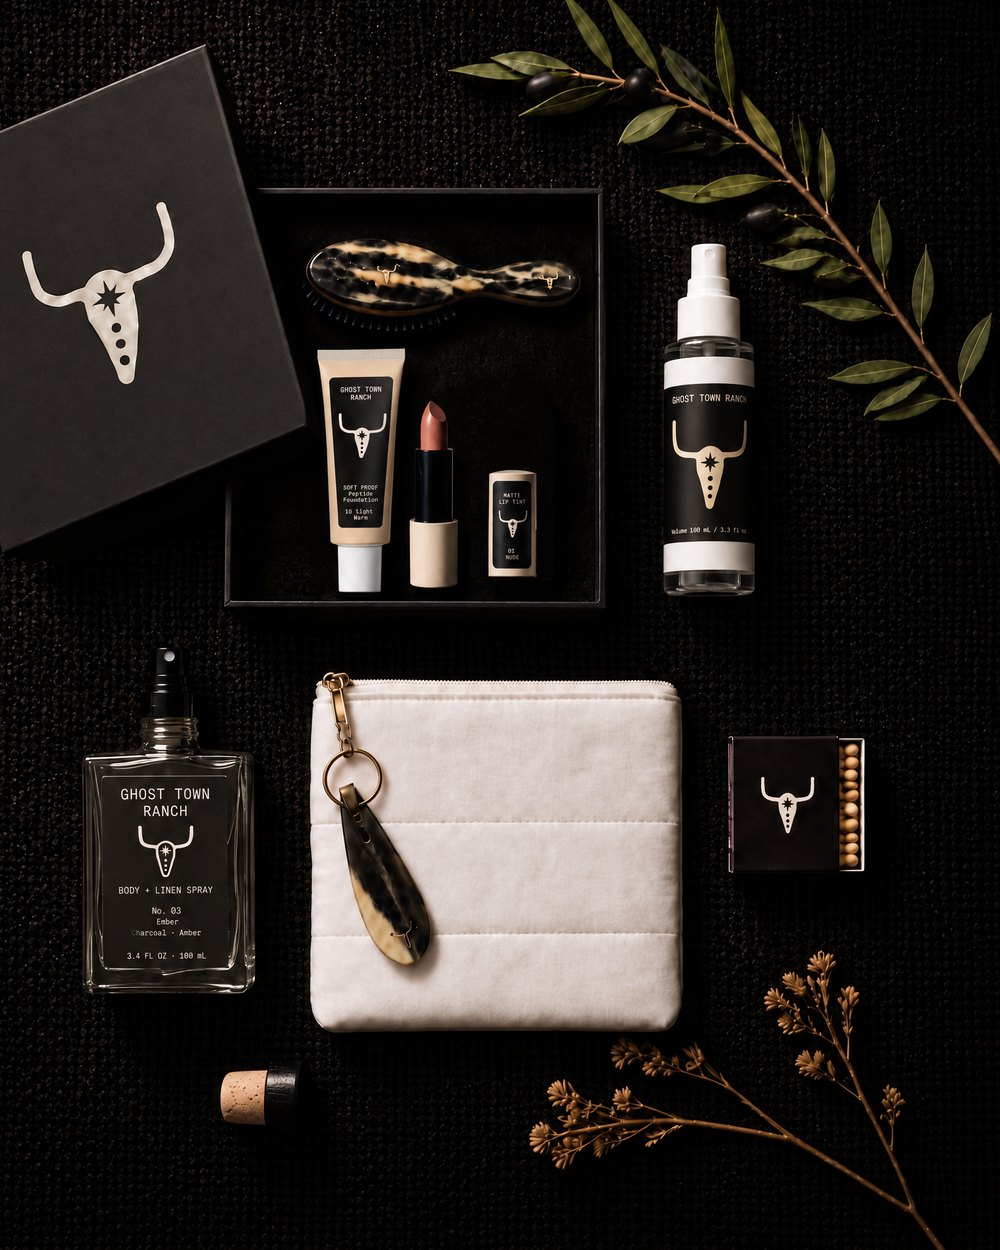
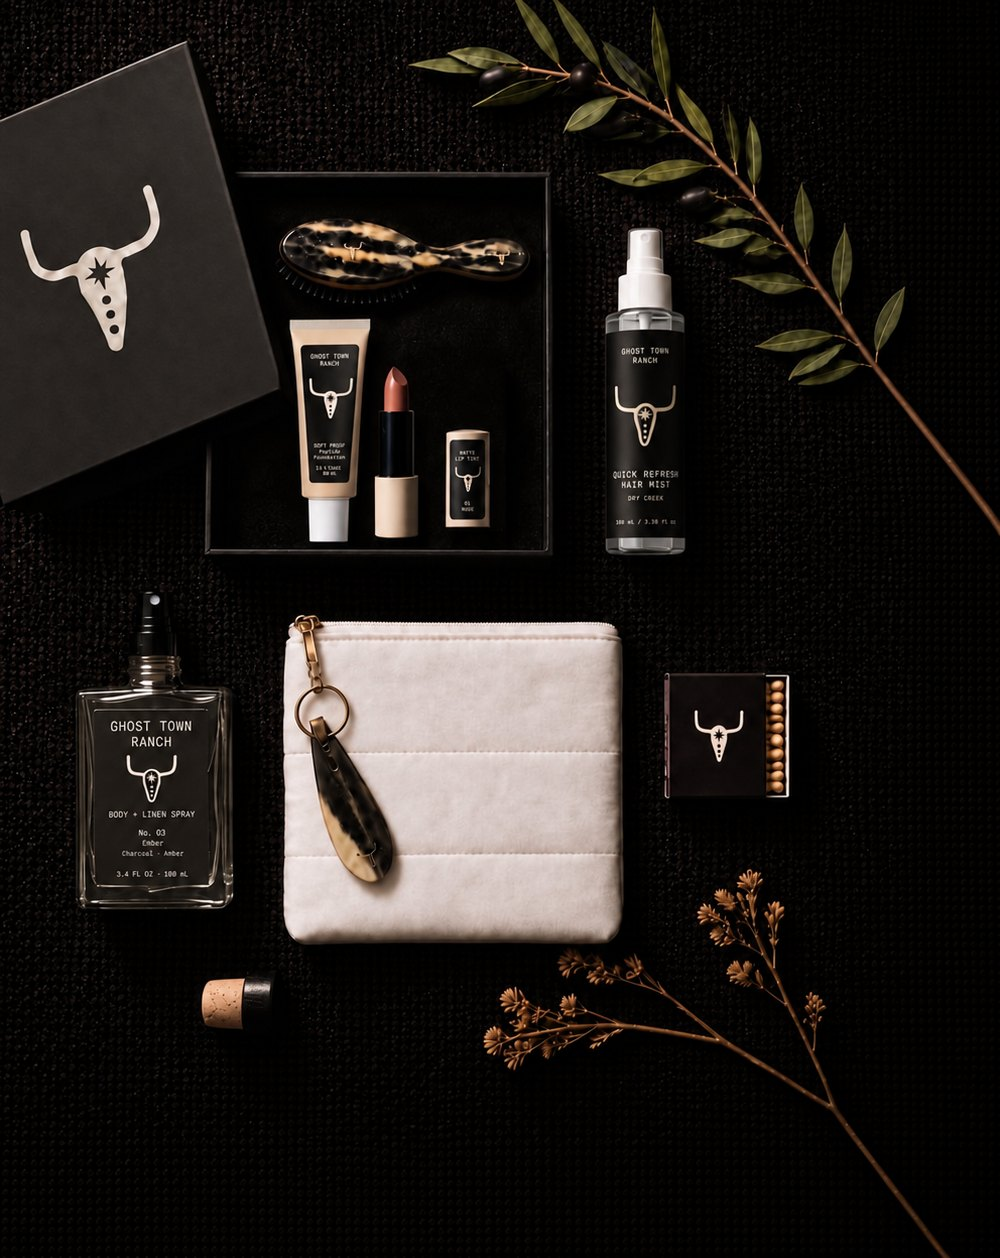
Home: update the three collection images
Claude-Session: https://claude.ai/code/session_01NSPNNt7NBcQKkgqDSVJ3tK

diff --git a/index.html b/index.html
@@ -912,15 +912,15 @@
   </div>
   <div class="road-grid">
     <a class="road-tile" href="https://ghosttownranch.com/shop/">
-      <div class="road-media"><img src="/media/collection-morning.jpg" alt="Horn boot horn, horn comb, Golden Hour body oil and Mojave Reset face mist in a black Bull box" loading="lazy"></div>
+      <div class="road-media"><img src="/media/collection-morning.jpg?v=3" alt="Horn boot horn, Golden Hour body oil and Mojave Reset face mist in a black Bull box, with the horn comb and matches" loading="lazy"></div>
       <div class="road-cap">Morning<span>Boot horn, comb, Golden Hour, Mojave Reset</span></div>
     </a>
     <a class="road-tile" href="https://ghosttownranch.com/shop/">
-      <div class="road-media"><img src="/media/collection-out-the-door.jpg" alt="White Day Ride bag with the horn shoehorn keyring, horn hairbrush, Soft Proof foundation, Drawn Line in 01 Nude, Dry Creek and Ranch Water" loading="lazy"></div>
+      <div class="road-media"><img src="/media/collection-out-the-door.jpg?v=3" alt="White Day Ride bag with the horn shoehorn keyring, horn hairbrush, Soft Proof foundation, Drawn Line in 01 Nude, Dry Creek and Ranch Water" loading="lazy"></div>
       <div class="road-cap">Out the Door<span>Day Ride, keyring, brush, Soft Proof, Drawn Line, Blotting Papers, Dry Creek, Ranch Water</span></div>
     </a>
     <a class="road-tile" href="https://ghosttownranch.com/shop/">
-      <div class="road-media"><img src="/media/collection-end-of-day.jpg?v=2" alt="Horn comb and brush in a black Bull box, black Day Ride bag, horn bowl with the shoehorn keyring, The Wash, Ranch Water in Graze and Beard Butter" loading="lazy"></div>
+      <div class="road-media"><img src="/media/collection-end-of-day.jpg?v=3" alt="Horn comb and brush in a black Bull box, black Day Ride bag, horn bowl with the shoehorn keyring, The Wash in Cold-Pressed Grapefruit, Ranch Water in Graze and Beard Butter" loading="lazy"></div>
       <div class="road-cap">End of the Day<span>Comb, brush, horn bowl, keyring, Day Ride, Ranch Water, The Wash, Beard Butter</span></div>
     </a>
   </div>
